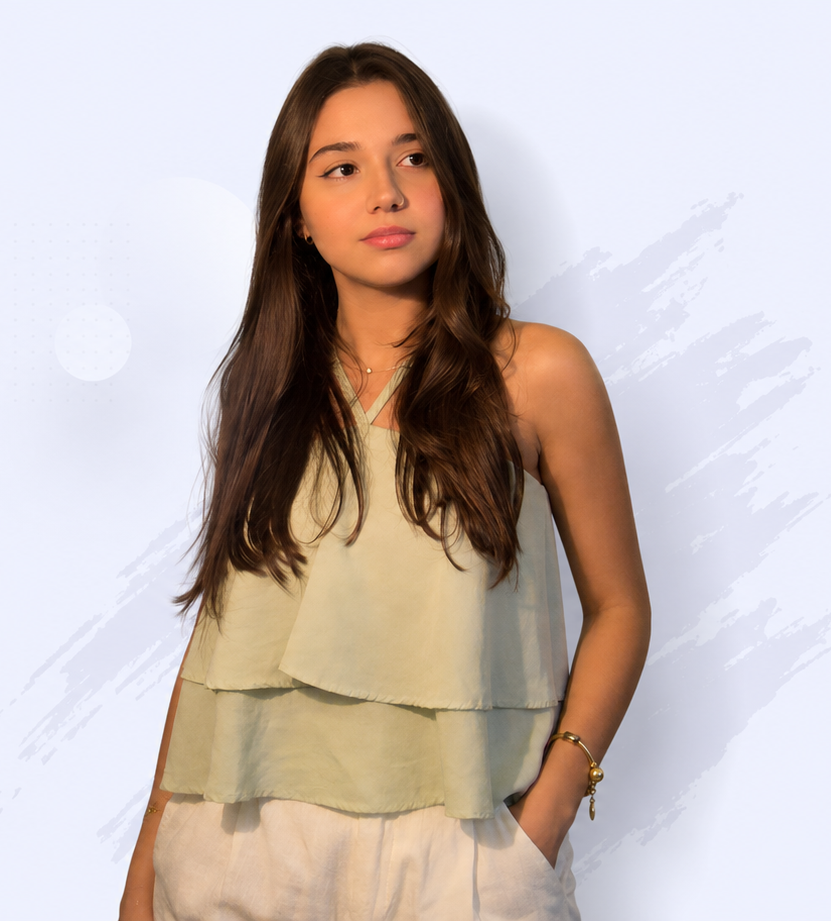
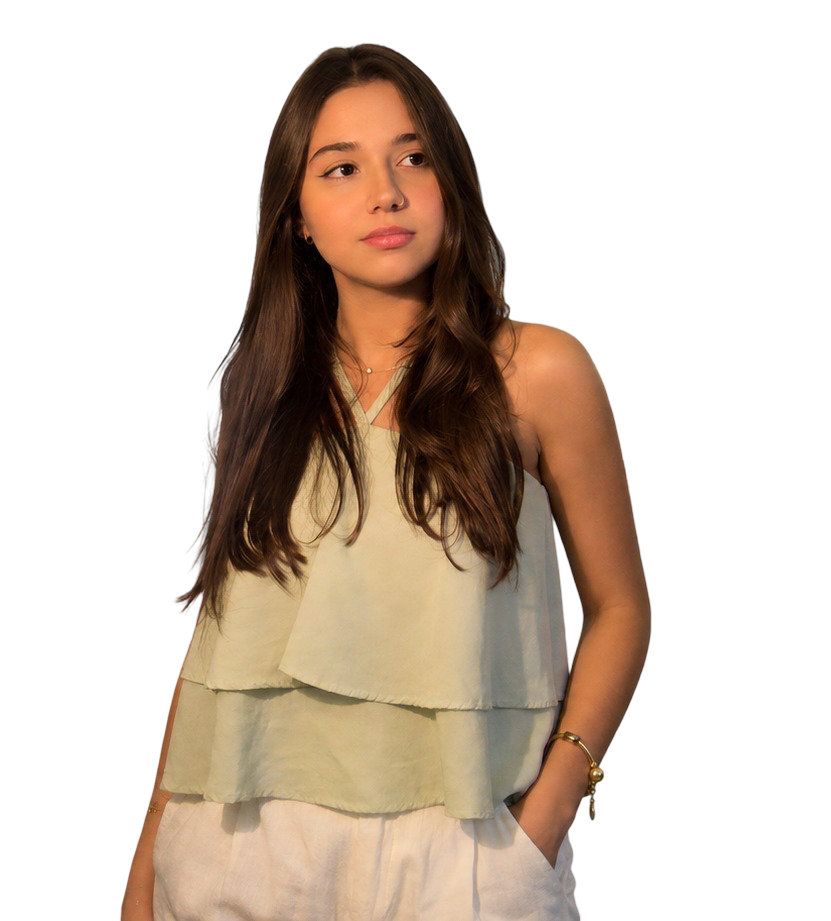
Update

diff --git a/style.css b/style.css
@@ -7,7 +7,8 @@
   scroll-behavior: smooth; /* Rolagem suave entre as seções */
 }
 
-html, body {
+html,
+body {
   background-color: #f3f5f8 !important; /* Fundo off-white azulado suave */
   color: #333;
   overflow-x: hidden;
@@ -108,7 +109,7 @@ header.scrolled {
 }
 
 .subtitle {
-  font-size: 12px;
+  font-size: 15px;
   font-weight: 600;
   color: #888;
   letter-spacing: 2px;
@@ -117,7 +118,7 @@ header.scrolled {
 }
 
 .hero-text h1 {
-  font-size: 56px;
+  font-size: 70px;
   font-weight: 700;
   color: #1e2229;
   line-height: 1.1;
@@ -129,7 +130,7 @@ header.scrolled {
 }
 
 .hero-text p {
-  font-size: 13px;
+  font-size: 15px;
   color: #777;
   line-height: 1.8;
   margin-bottom: 35px;
@@ -158,49 +159,60 @@ header.scrolled {
 }
 
 /* --- ÁREA DA IMAGEM --- */
+.hero-section {
+  overflow: hidden;
+}
+
 .hero-image {
   position: relative;
   width: 50%;
   height: 100%;
+  background-color: #f3f5f8;
   display: flex;
+  overflow: hidden;
   align-items: flex-end;
   justify-content: center;
-  background: transparent !important;
 }
 
 .profile-img {
-  max-height: 80vh;
+  width: 100%;
+  height: auto;
+
   object-fit: contain;
   z-index: 3;
+  position: relative;
+
   filter: grayscale(100%) contrast(120%);
-  mix-blend-mode: multiply;
-  background: transparent !important;
 }
 
-.bg-circle {
+.element-img {
   position: absolute;
-  top: 30%;
-  left: 35%;
-  width: 200px;
-  height: 200px;
-  background: radial-gradient(
-    circle,
-    rgba(255, 255, 255, 1) 0%,
-    rgba(243, 245, 248, 0) 70%
-  );
-  z-index: 1;
+  z-index: 2;
+
+  width: 95%;
+  height: auto;
+
+  opacity: 0.4;
 }
 
 .bg-brush {
   position: absolute;
-  width: 450px;
-  height: 450px;
-  background: rgba(220, 225, 233, 0.6);
+  width: clamp(320px, 38vw, 560px);
+  height: clamp(320px, 38vw, 560px);
+
+  right: 5%;
+  bottom: 5%;
+
+  background: #f3f5f8;
   clip-path: polygon(20% 0%, 80% 10%, 100% 40%, 85% 90%, 30% 100%, 0% 70%);
   filter: blur(30px);
-  z-index: 2;
-  bottom: 10%;
-  right: 5%;
+
+  box-shadow: 0 5px 20px rgba(0, 0, 0, 0.089);
+
+  opacity: 0.9;
+
+  transform: rotate(-10deg);
+  z-index: 1;
 }
 
 /* Scroll Down Lateral Direito */

diff --git a/index.html b/index.html
@@ -127,9 +127,9 @@
         </div>
 
         <div class="hero-image">
-          <div class="bg-circle"></div>
           <div class="bg-brush"></div>
           <img src="imagens/me.png" alt="Madu Peres" class="profile-img" />
+          <img src="imagens/element.png" alt="Element" class="element-img" />
         </div>
 
         <div class="social-icons">
